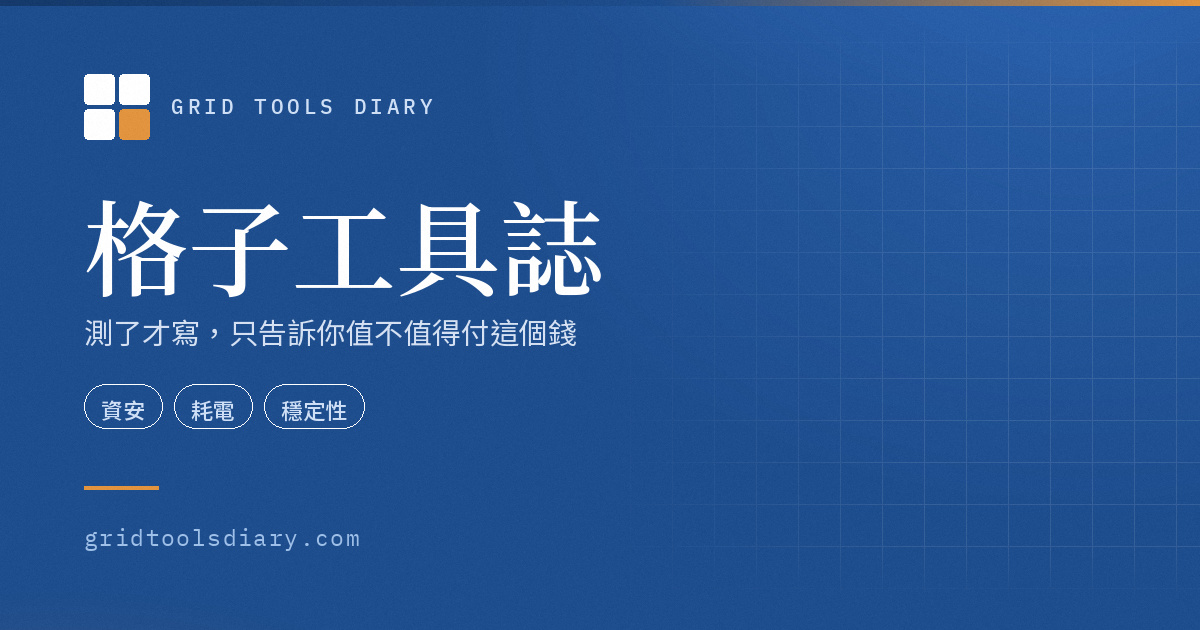
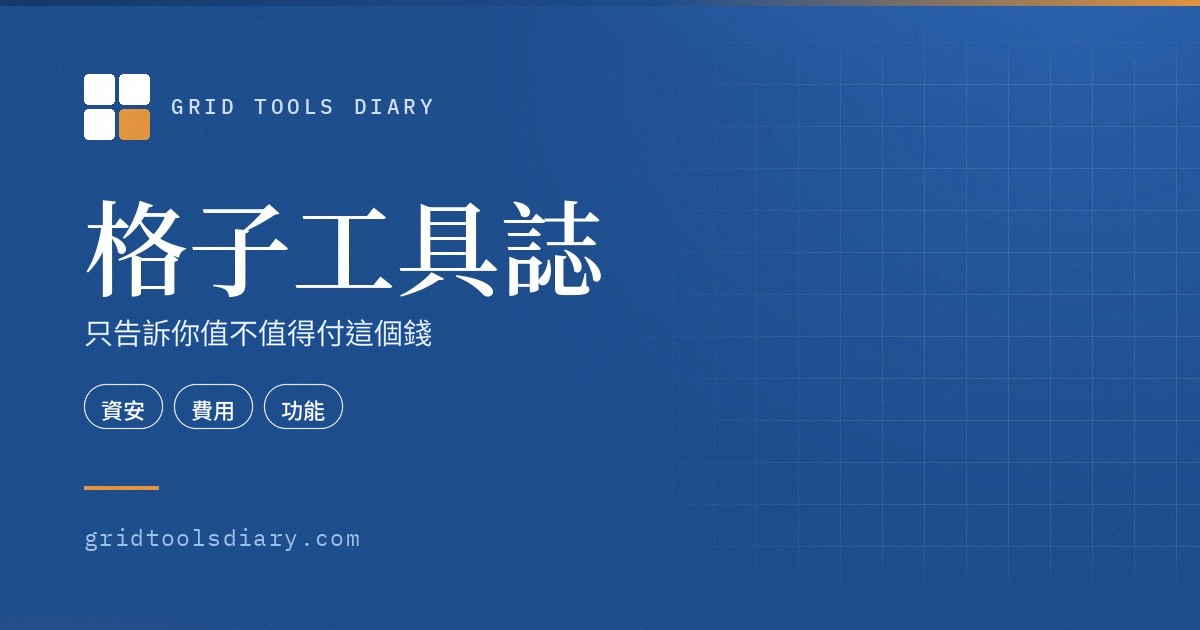
fix: drop unbacked hands-on testing claims from tagline, hero and share card
Site tagline, description, sidebar about text, home hero h1/subline,
trust row, featured meta and og-default.jpg no longer claim the author
tested tools hands-on; wording now says conclusions come from comparing
at least two tools against official sources.

diff --git a/themes/gridtools/layouts/home.html b/themes/gridtools/layouts/home.html
@@ -17,11 +17,11 @@
   <div class="band-inner">
     <div class="band-col">
       <span class="band-pill"><span class="dot" aria-hidden="true"></span>2026 版・繁中工具評測</span>
-      <h1>測了才寫，只告訴你值不值得付這個錢</h1>
-      <p class="band-sub">不業配、每個工具至少比兩個。給你立場，不給「視需求而定」。</p>
+      <h1>只告訴你值不值得付這個錢</h1>
+      <p class="band-sub">不業配、每個工具至少比兩個、查完官方資料才下結論。給你立場，不給「視需求而定」。</p>
       <div class="trust-row">
         <span>有立場不含糊</span>
-        <span>繁中在地評測</span>
+        <span>繁中評測・看台灣方案價</span>
       </div>
       <div class="cta-row">
         <a href="#featured" class="btn btn-primary">看最新工具評測 <span class="arrow" aria-hidden="true">&rarr;</span></a>
@@ -50,7 +50,7 @@
     <section id="featured" aria-labelledby="feat-h">
       <div class="sec-head">
         <h2 id="feat-h">精選評測</h2>
-        <span class="meta">本週最花時間的一篇</span>
+        <span class="meta">最新的一篇</span>
       </div>
 
       {{ with $featured }}
